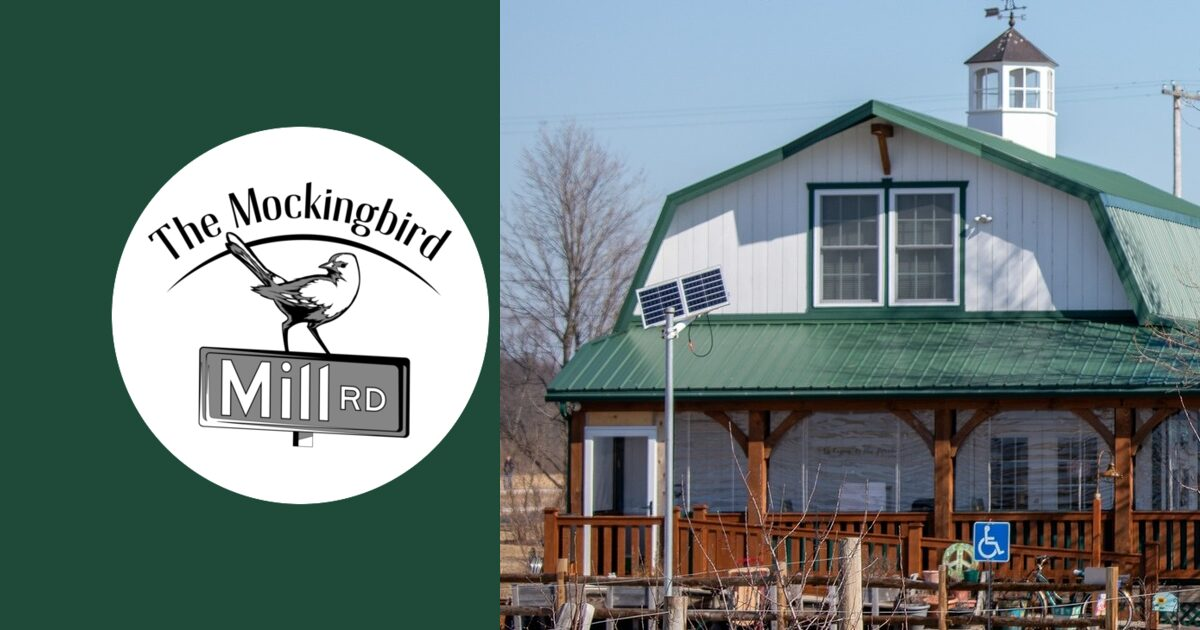
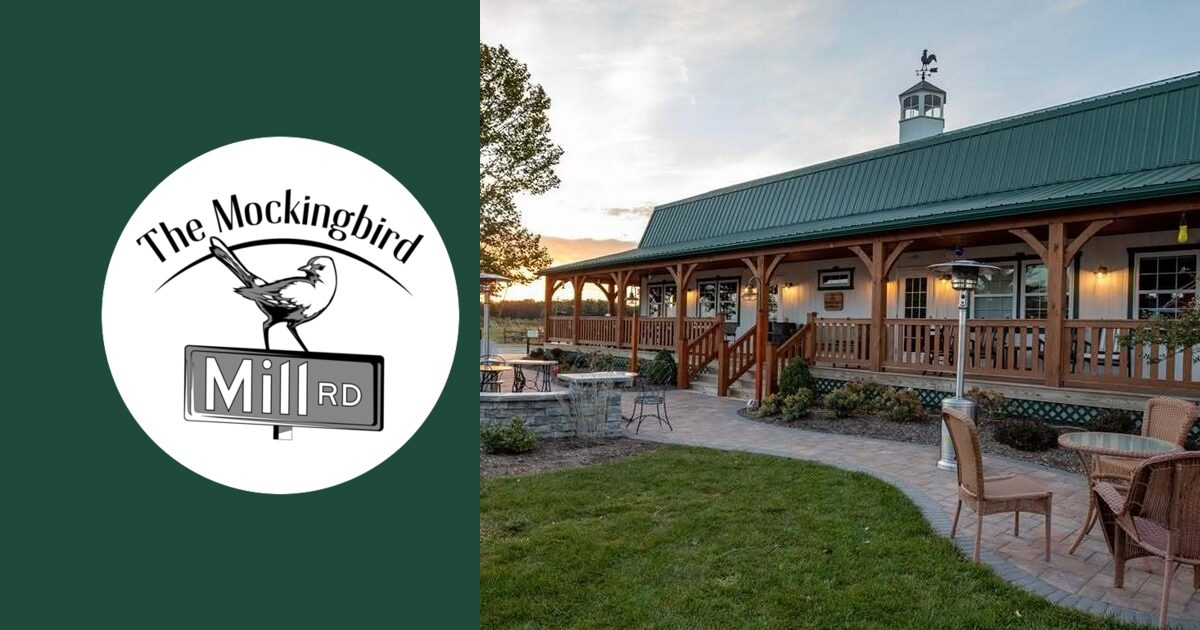
Rebrand: owner photos across the site
- Homepage hero is now the covered porch and stone patio at sunset (watermark
  cropped out); the share image uses it too.
- Photos beside the page intros: the board on Menu, wine at sunset on Drinks,
  the Christmas tree on Gift Cards; the grounds across the top of About; the
  rosé bottles in the roses beside the homepage drinks section.
- All resized and saved as WebP with phone and desktop sizes (17–169 KB each).

diff --git a/index.html b/index.html
@@ -42,12 +42,12 @@
         <section class="hero home-hero">
       <img
         data-img="hero"
-        src="assets/brand/hero-grounds.jpg"
-        srcset="assets/brand/hero-grounds-800.webp 800w, assets/brand/hero-grounds-1600.webp 1600w"
-        sizes="(max-width: 860px) 100vw, 60vw"
-        alt="The Mockingbird on Mill Road in Graytown, Ohio: the white building with the green roof and cupola, the windmill and the patio"
-        width="1600"
-        height="547"
+        src="assets/brand/hero-patio.jpg"
+        srcset="assets/brand/hero-patio-760.webp 760w, assets/brand/hero-patio-1120.webp 1121w"
+        sizes="100vw"
+        alt="The Mockingbird's covered porch and stone patio at sunset, with wicker chairs on the lawn"
+        width="1121"
+        height="705"
         fetchpriority="high"
       >
       <div class="hero-content">
@@ -73,14 +73,14 @@
 <p>A patio, a studio side and a tasting room give you a few ways to settle in.</p>
 </div></section>
 
-<section class="section alt fade-in"><div class="container"><p class="kicker">Wine, flights + the bottle shop</p>
+<section class="section alt fade-in"><div class="container split-photo"><div><p class="kicker">Wine, flights + the bottle shop</p>
 <h2>Find your next favorite.</h2>
 <p class="lead">Our 20 wines by the glass are listed sweet to dry. Start where you’re comfortable, then see what catches your eye.</p>
 <p><strong>Build your own flight: any 4 wines or tap pours for $15.</strong> Mix familiar favorites with something new.</p>
 <p>Our taps include Peach Mango and Cucumber Lime sangria. Explore hazy IPAs, porters and a barrel-aged rye ale, with familiar beer favorites, too.</p>
 <h3>A bottle for another evening.</h3>
 <p>Our bottle shop has wines you won’t find at the grocery store. Tell us what you enjoy or what you’re bringing it to. We’ll help you choose.</p>
-</div></section>
+</div><figure class="split-photo-img"><img src="assets/brand/drinks-rose-720.webp" alt="Bottles of rosé and sparkling rosé tucked among pink roses" width="720" height="720" loading="lazy" decoding="async"></figure></div></section>
 
 <section class="section fade-in" id="music"><div class="container"><p class="kicker">Music + events</p>
 <h2>Find a night that sings to you.</h2>

diff --git a/css/brand.css b/css/brand.css
@@ -155,7 +155,7 @@ nav a[aria-current="page"] { color: var(--green); font-weight: 600; }
   width: 100%;
   height: clamp(220px, 34vw, 440px);
   object-fit: cover;
-  object-position: 30% 62%;
+  object-position: 50% 48%;
   border-radius: 0;
 }
 .home-hero .hero-content {
@@ -220,6 +220,42 @@ nav a[aria-current="page"] { color: var(--green); font-weight: 600; }
   .home-hero .kicker { margin-top: 0; }
   .home-hero .hero-cta .btn { flex: 1 1 100%; }
 }
+
+/* ---------- Photos beside page intros ---------- */
+.page-intro {
+  display: grid;
+  grid-template-columns: minmax(0, 1fr) minmax(0, 0.85fr);
+  gap: 40px;
+  align-items: center;
+  margin-bottom: 28px;
+}
+.page-intro-photo,
+.split-photo-img { margin: 0; }
+.page-intro-photo img,
+.split-photo-img img {
+  width: 100%;
+  height: auto;
+  max-height: 420px;
+  object-fit: cover;
+  border-radius: var(--radius);
+  box-shadow: var(--shadow);
+}
+.split-photo {
+  display: grid;
+  grid-template-columns: minmax(0, 1.2fr) minmax(0, 0.8fr);
+  gap: 48px;
+  align-items: center;
+}
+@media (max-width: 860px) {
+  .page-intro,
+  .split-photo { grid-template-columns: 1fr; gap: 20px; }
+  .page-intro-photo { order: -1; }
+  .page-intro-photo img,
+  .split-photo-img img { max-height: 260px; }
+}
+
+.about-photo { margin: 8px 0 32px; }
+.about-photo img { width: 100%; height: clamp(200px, 30vw, 380px); object-fit: cover; object-position: 30% 60%; border-radius: var(--radius); }
 
 /* ---------- Sections and cards ---------- */
 .section.alt {

diff --git a/drinks/index.html b/drinks/index.html
@@ -41,10 +41,12 @@
   <main id="main" class="section drinks-page">
   <div class="container">
     <div class="drinks-intro">
+      <div class="page-intro"><div>
       <p class="kicker">Drinks</p>
       <h1>A little curiosity goes a long way.</h1>
       <p class="lead">Explore 20 wines by the glass, listed sweet to dry, or build a flight of any 4 wines or tap pours for $15. There’s sangria on tap, craft beer and a bottle shop to explore. Tell us what you like. We’ll help you find a place to start.</p>
       <p>Bottle carryout coming Monday–Wednesday evenings in 2027.</p>
+      </div><figure class="page-intro-photo"><img src="../assets/brand/drinks-sunset-1000.webp" srcset="../assets/brand/drinks-sunset-600.webp 600w, ../assets/brand/drinks-sunset-1000.webp 1000w" sizes="(max-width: 860px) 100vw, 45vw" alt="Two glasses of red wine and a bottle on the porch rail at sunset" width="1000" height="1000" loading="eager" decoding="async"></figure></div>
 
       <div class="drinks-flight-feature">
         <div>

diff --git a/menu/index.html b/menu/index.html
@@ -39,9 +39,11 @@
 
   <main id="main" class="section">
     <div class="container">
+      <div class="page-intro"><div>
       <p class="kicker">Menu</p>
       <h1>Good company for your glass.</h1>
       <p class="lead">Our scratch-made food is built for sharing with wine. Start with a cheese and charcuterie board, pass a homemade flatbread, or settle in with a pressed sandwich and soup. Look for Tom’s homemade crackers, house jam and this week’s sweet.</p>
+      </div><figure class="page-intro-photo"><img src="../assets/brand/menu-board-1200.webp" srcset="../assets/brand/menu-board-700.webp 700w, ../assets/brand/menu-board-1200.webp 1200w" sizes="(max-width: 860px) 100vw, 45vw" alt="A Mockingbird board with cheeses, cured meats, fruit, house crackers, olives and baked stuffed mushrooms" width="1200" height="900" loading="eager" decoding="async"></figure></div>
       <div class="menu-jump">
         <a href="#menu-starters">Starters</a>
         <a href="#menu-boards">Boards</a>

diff --git a/gift-cards/index.html b/gift-cards/index.html
@@ -38,9 +38,11 @@
 
   <main id="main" class="section">
     <div class="container">
+      <div class="page-intro"><div>
       <p class="kicker">Gift Cards</p>
       <h1>Gift cards for dinner &amp; drinks</h1>
       <p class="lead">Call or stop by to load a Mockingbird gift card for food, drinks, specials, or events.</p>
+      </div><figure class="page-intro-photo"><img src="../assets/brand/gift-holiday-1200.webp" srcset="../assets/brand/gift-holiday-700.webp 700w, ../assets/brand/gift-holiday-1200.webp 1200w" sizes="(max-width: 860px) 100vw, 45vw" alt="A Christmas tree with red and gold ornaments and white lights glowing at The Mockingbird" width="1200" height="800" loading="eager" decoding="async"></figure></div>
       <div id="giftcard-options" class="list-flex"></div>
       <p class="note">Redeem in person at Mockingbird. Custom amounts available—call us.</p>
     </div>

diff --git a/about/index.html b/about/index.html
@@ -40,6 +40,7 @@
     <div class="container">
       <p class="kicker">About</p>
       <h1>About</h1>
+      <figure class="about-photo"><img src="../assets/brand/hero-grounds-1600.webp" srcset="../assets/brand/hero-grounds-800.webp 800w, ../assets/brand/hero-grounds-1600.webp 1600w" sizes="100vw" alt="The white building with the green roof and cupola, the windmill and the big white barn at The Mockingbird" width="1600" height="547" loading="eager" decoding="async"></figure>
 <h2>In the middle of nowhere, there’s a where.</h2>
 <p class="note">— Kaja, describing The Mockingbird on Mill Road</p>
 <p>The Mockingbird is a country wine café and music venue on Mill Road, made for finding your next favorite.</p>
